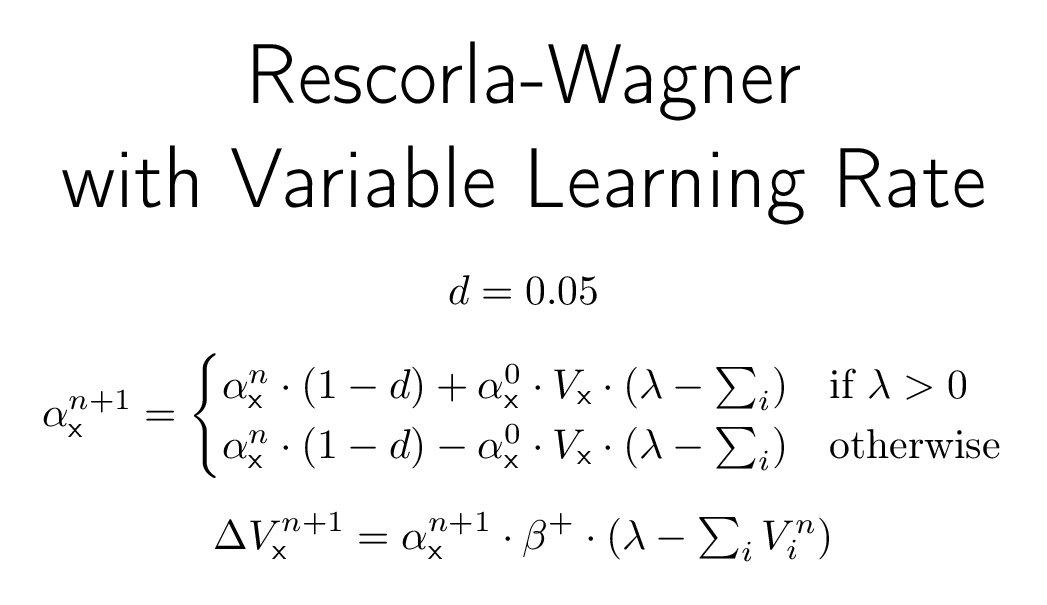
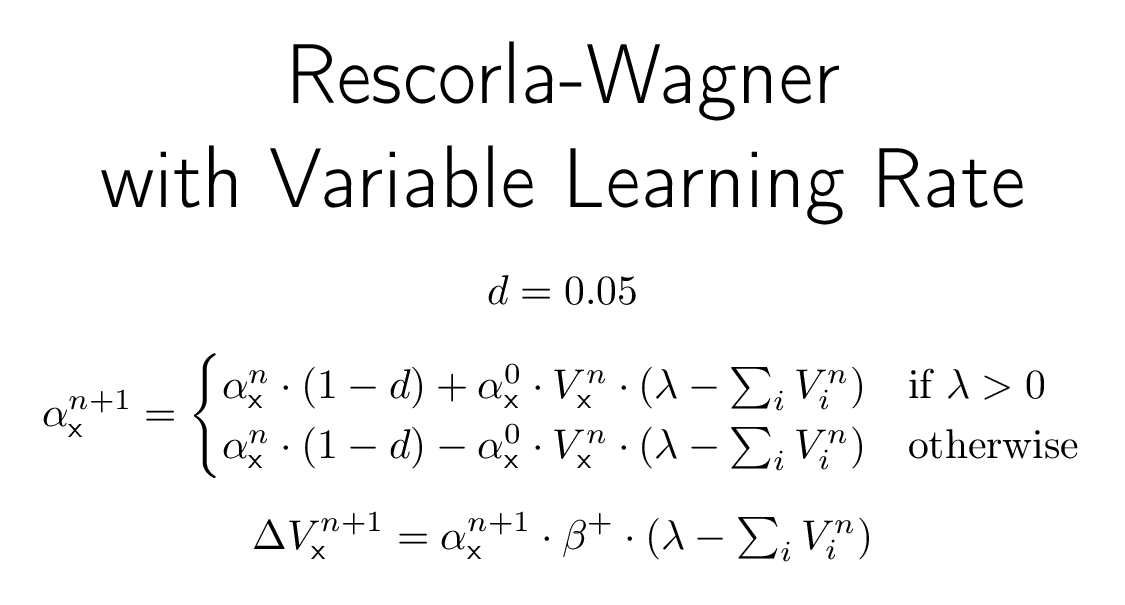
Fixing Vs in formula.

diff --git a/resources/RW-Linear.tex b/resources/RW-Linear.tex
@@ -20,8 +20,8 @@
 	\begin{gathered}
 		d = 0.05 \\[1ex]
 		\alpha_\eks^{n + 1} = \begin{cases}
-			\alpha_\eks^n \cdot (1 - d) + \alpha_\eks^0 \cdot V_\eks \cdot \left( \lambda - \textstyle\sum_i \right) &\text{if } \lambda > 0 \\
-			\alpha_\eks^n \cdot (1 - d) - \alpha_\eks^0 \cdot V_\eks \cdot \left( \lambda - \textstyle\sum_i \right) &\text{otherwise}
+			\alpha_\eks^n \cdot (1 - d) + \alpha_\eks^0 \cdot V_\eks^n \cdot \left( \lambda - \textstyle\sum_i V^n_i \right) &\text{if } \lambda > 0 \\
+			\alpha_\eks^n \cdot (1 - d) - \alpha_\eks^0 \cdot V_\eks^n \cdot \left( \lambda - \textstyle\sum_i V^n_i \right) &\text{otherwise}
 		\end{cases} \\[1ex]
 		\Delta V_{\eks}^{n+1} = \alpha_\eks^{n + 1} \cdot \beta^+ \cdot \left( \lambda - \textstyle\sum_i V_i^{n} \right)
 	\end{gathered}
